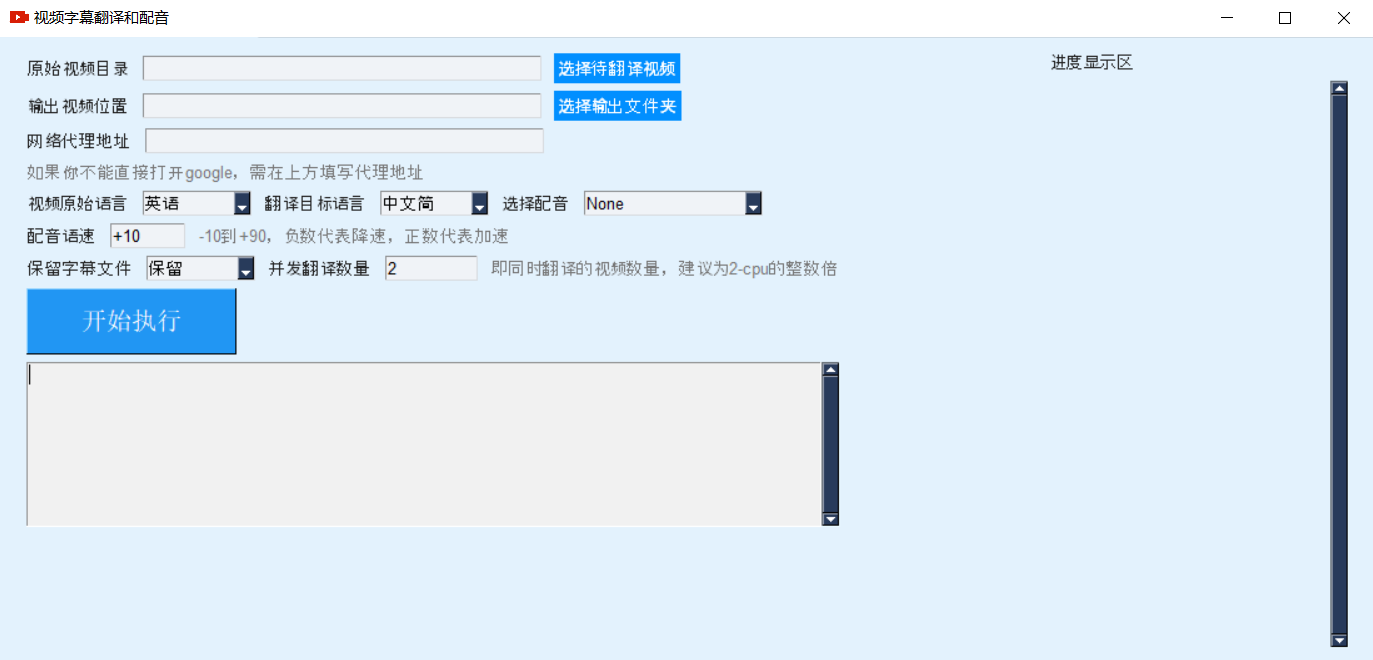
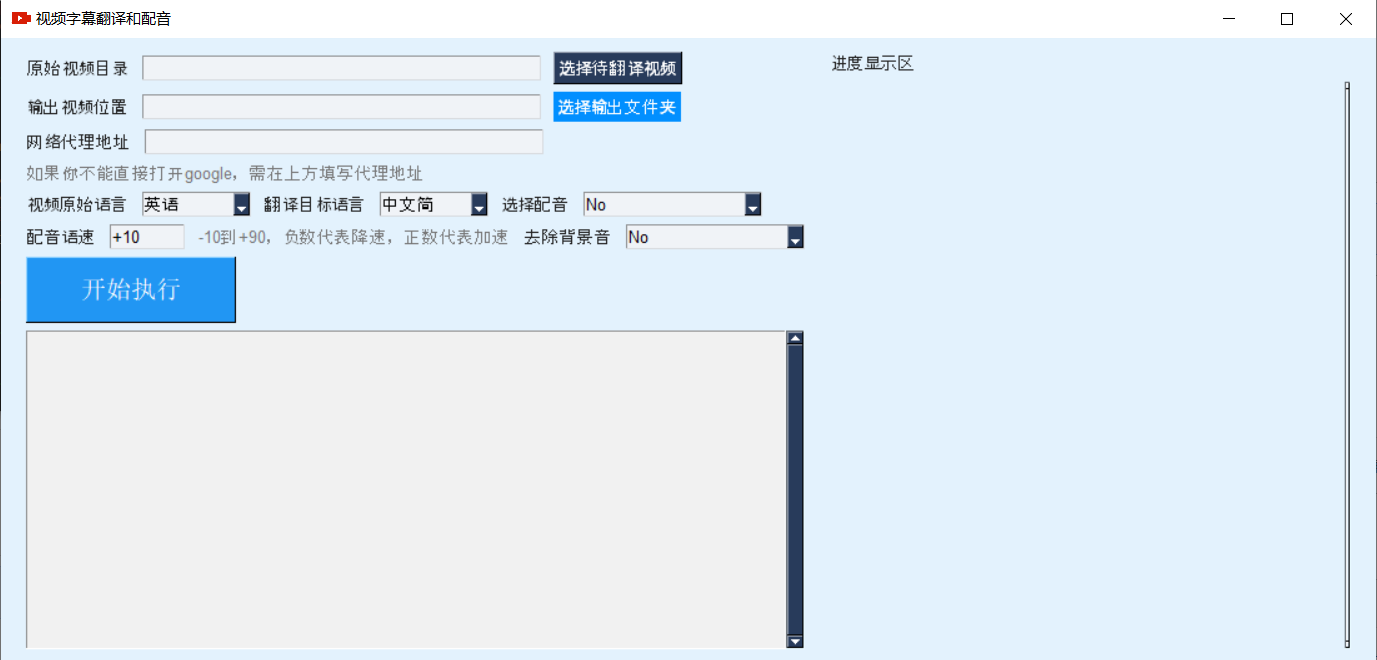
fixed

diff --git a/sp.py b/sp.py
@@ -2,13 +2,15 @@ import asyncio
 import re
 import shutil
 import sys
+import urllib.parse
+
 import httpx
+import requests
 import speech_recognition as sr
 import os
 import time
 from pydub import AudioSegment
 from pydub.silence import detect_nonsilent
-from googletrans import Translator
 import PySimpleGUI as sg
 import srt
 from datetime import timedelta
@@ -18,7 +20,6 @@ from tkinter import messagebox
 import threading
 from config import qu, rootdir, langlist, timelist, current_status, video_config, layout, voice_list, transobj
 import edge_tts
-import moviepy.editor as mp
 
 sg.user_settings_filename(path='.')
 asyncio.set_event_loop_policy(asyncio.WindowsSelectorEventLoopPolicy())
@@ -96,6 +97,35 @@ def merge_audio_segments(segments, start_times, total_duration, mp4name):
     merged_audio.export(f"./tmp/{mp4name}.wav", format="wav")
     return merged_audio
 
+# google 翻译
+def googletrans(text,src,dest):
+    url = f"https://translate.google.com/m?sl={urllib.parse.quote(src)}&tl={urllib.parse.quote(dest)}&hl={urllib.parse.quote(dest)}&q={urllib.parse.quote(text)}"
+    print(f"{url=}")
+    headers = {
+        'User-Agent': 'Mozilla/5.0 (Windows NT 10.0; Win64; x64) AppleWebKit/537.36 (KHTML, like Gecko) Chrome/91.0.4472.124 Safari/537.36'
+    }
+    proxies=None
+    if "http_proxy" in os.environ:
+        proxies = {
+            'http': os.environ['http_proxy'],
+            'https': os.environ['https_proxy']
+        }
+
+    # proxies = {
+    #     'http': 'http://127.0.0.1:10809',
+    #     'https': 'http://127.0.0.1:10809'
+    # }
+
+    response = requests.get(url, proxies=proxies,headers=headers,timeout=40)
+    if response.status_code!=200:
+        return f"error translation code={response.status_code}"
+    re_result = re.findall(
+        r'(?s)class="(?:t0|result-container)">(.*?)<', response.text)
+    return "error on translation" if len(re_result)<1 else re_result[0]
+
+
+# print(googletrans(" ignition services, or asrs, or built on technology that's over 50 years old. yep, even these guys. the old tech is fine for short call and response audio. alexa, what's the weather to you?. ","en","zh-cn"))
+# exit()
 
 # 处理各个音频片段到文字并生成字幕文件
 def get_large_audio_transcription(aud_path, mp4name, sub_name):
@@ -163,8 +193,8 @@ def get_large_audio_transcription(aud_path, mp4name, sub_name):
                 audio_listened = r.record(source)
                 try:
                     # text = r.recognize_google(audio_listened, language=video_config['detect_language'])
-                    text = r.recognize_whisper(audio_listened, language=video_config['detect_language'])
-                    print(f"【get_large_audio_transcription】语音识别为文字:{text=}")
+                    text = r.recognize_whisper(audio_listened, language= "zh" if video_config['detect_language']=="zh-cn" or video_config['detect_language']=="zh-tw" else video_config['detect_language'])
+                    # print(f"【get_large_audio_transcription】语音识别为文字:{text=}")
                 except sr.UnknownValueError as e:
                     print("Recognize Error: ", str(e), end='; ')
                     segments.append(audio_chunk)
@@ -178,9 +208,11 @@ def get_large_audio_transcription(aud_path, mp4name, sub_name):
                 text = f"{text.capitalize()}. "
                 try:
                     # google翻译
-                    transd = translator.translate(text, src=video_config['source_language'],
-                                                  dest=video_config['target_language'])
-                    result = transd.text
+                    # result = translator.translate(text, src=video_config['source_language'],  dest=video_config['target_language'])
+                    result=googletrans(text,video_config['source_language'],video_config['target_language'])
+                    # result = gt.translate(text,video_config['target_language'],video_config['source_language'])
+                    # result = transd.text
+                    print(f"-target_language={video_config['target_language']}---text={result=}")
                 except Exception as e:
                     print("Translate Error:", str(e))
                     segments.append(audio_chunk)
@@ -201,13 +233,16 @@ def get_large_audio_transcription(aud_path, mp4name, sub_name):
                                                        rate=video_config['voice_rate'])
                     tmpname = f"./tmp/{start_time}-{index}.mp3"
                     asyncio.run(communicate.save(tmpname))
-                    audio_data = AudioSegment.from_file(tmpname, format="mp3")
+                    try:
+                        audio_data = AudioSegment.from_file(tmpname, format="mp3")
+                    except:
+                        audio_data=AudioSegment.silent(duration=end_time-start_time)
                     segments.append(audio_data)
                     os.unlink(tmpname)
         merge_audio_segments(segments, start_times, total_length * 1000, mp4name)
         final_srt = srt.compose(subs)
-        with open(sub_name, 'w', encoding="utf-8") as f:
-            f.write(final_srt)
+        with open(sub_name, 'wb') as f:
+            f.write(final_srt.encode())
     else:
         updatebtn(mp4name, "add subtitle")
 
@@ -367,8 +402,9 @@ if __name__ == "__main__":
             # 目标存放地址
             if not target_dir:
                 target_dir = os.path.join(os.path.dirname(source_dir), "_video_out").replace('\\', '/')
-                os.makedirs(target_dir, 0o777, exist_ok=True)
                 window['target_dir'].update(value=target_dir)
+            if not os.path.exists(target_dir):
+                os.makedirs(target_dir, 0o777, exist_ok=True)
             # 原语言
             source_lang = window['source_lang'].get()
             target_lang = window['target_lang'].get()
@@ -412,7 +448,8 @@ if __name__ == "__main__":
             current_status = "ing"
             window['startbtn'].update(text=transobj['running'])
 
-            translator = Translator(service_urls=['translate.googleapis.com'])
+            # translator = Translator(service_urls=['translate.googleapis.com'])
+
             r = sr.Recognizer()
             threading.Thread(target=running, args=(window['source_dir'].get(),)).start()
             threading.Thread(target=showsubtitle).start()

diff --git a/config.py b/config.py
@@ -74,10 +74,10 @@ layout = [
                 ],
                 [
                     sg.Text('视频原始语言', background_color="#e3f2fd", text_color='#212121'),
-                    sg.Combo(list(langlist.keys()), default_value=sg.user_settings_get_entry('source_lang', '英语'),
+                    sg.Combo(list(langlist.keys()), default_value='英语',
                              readonly=True, key="source_lang", size=(10, None)),
                     sg.Text('翻译目标语言', background_color="#e3f2fd", text_color='#212121'),
-                    sg.Combo(list(langlist.keys()), default_value=sg.user_settings_get_entry('target_lang', '中文简'),
+                    sg.Combo(list(langlist.keys()), default_value='中文简',
                              readonly=True, key="target_lang", size=(10, None),
                              enable_events=True
                              ),
@@ -187,11 +187,11 @@ if defaulelang == "en":
                     [
                         sg.Text('Source Language', background_color="#e3f2fd", text_color='#212121'),
                         sg.Combo(list(langlist.keys()),
-                                 default_value=sg.user_settings_get_entry('source_lang', 'Simplified_Chinese'),
+                                 default_value='Simplified_Chinese',
                                  readonly=True, key="source_lang", size=(10, None)),
                         sg.Text('Target Language', background_color="#e3f2fd", text_color='#212121'),
                         sg.Combo(list(langlist.keys()),
-                                 default_value=sg.user_settings_get_entry('target_lang', 'English'),
+                                 default_value='English',
                                  readonly=True, key="target_lang", size=(10, None),
                                  enable_events=True
                                  ),

diff --git a/README.md b/README.md
@@ -41,7 +41,7 @@
 
 # 可能的问题
 
-> 在使用httpx和 googletrans 配置代理时可能报错，将 googletrans 包下 client.py 57 行左右改为 `proxies 类型 改为 httpcore.SyncHTTPProxy`
+> 翻译使用 requests 请求 google api，然后提取，过于频繁可能会被限制。
 
 
 # 致谢
